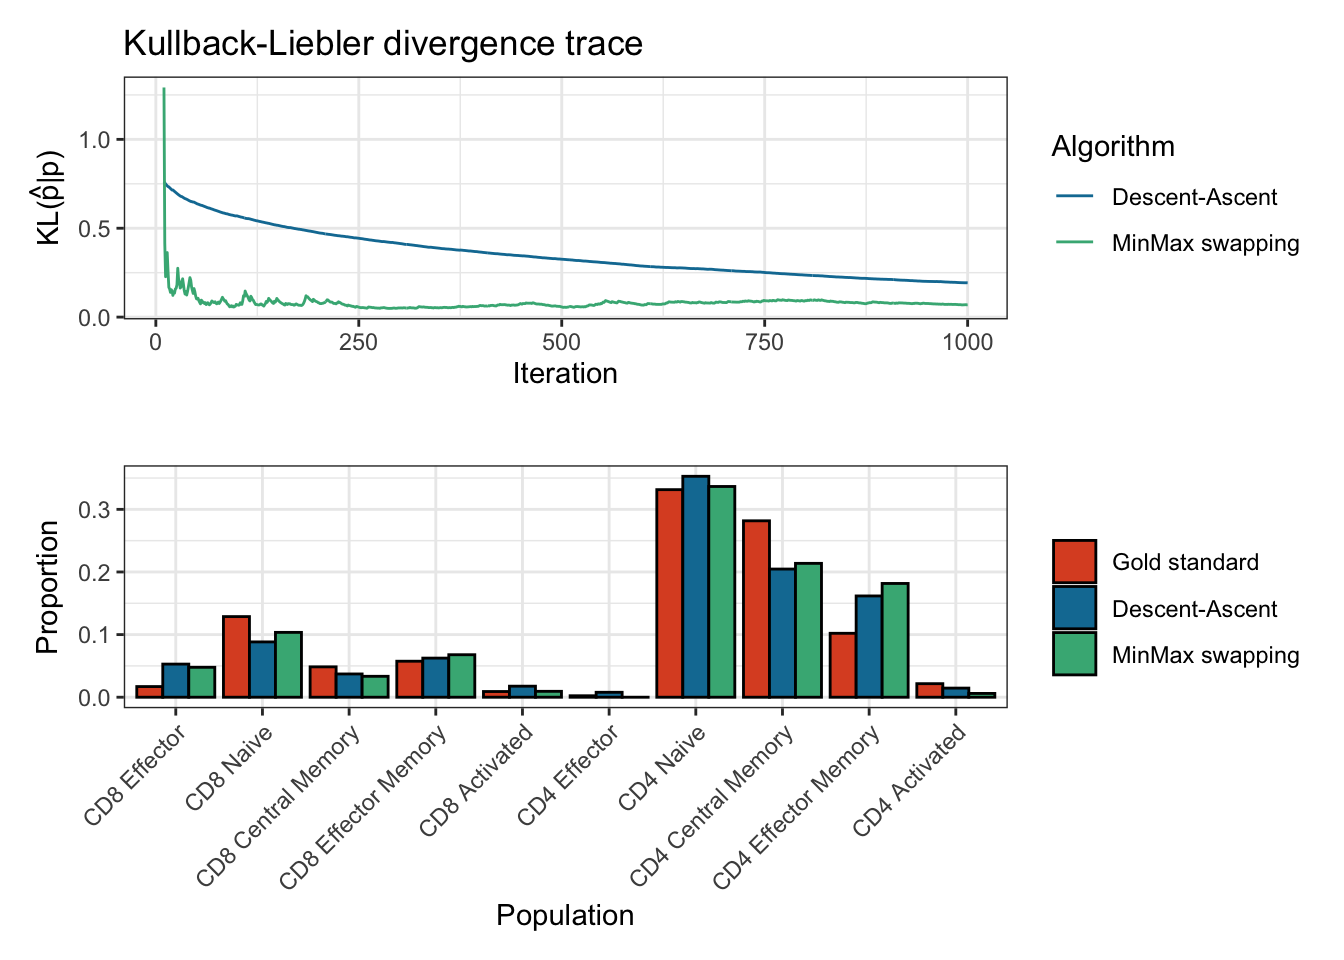
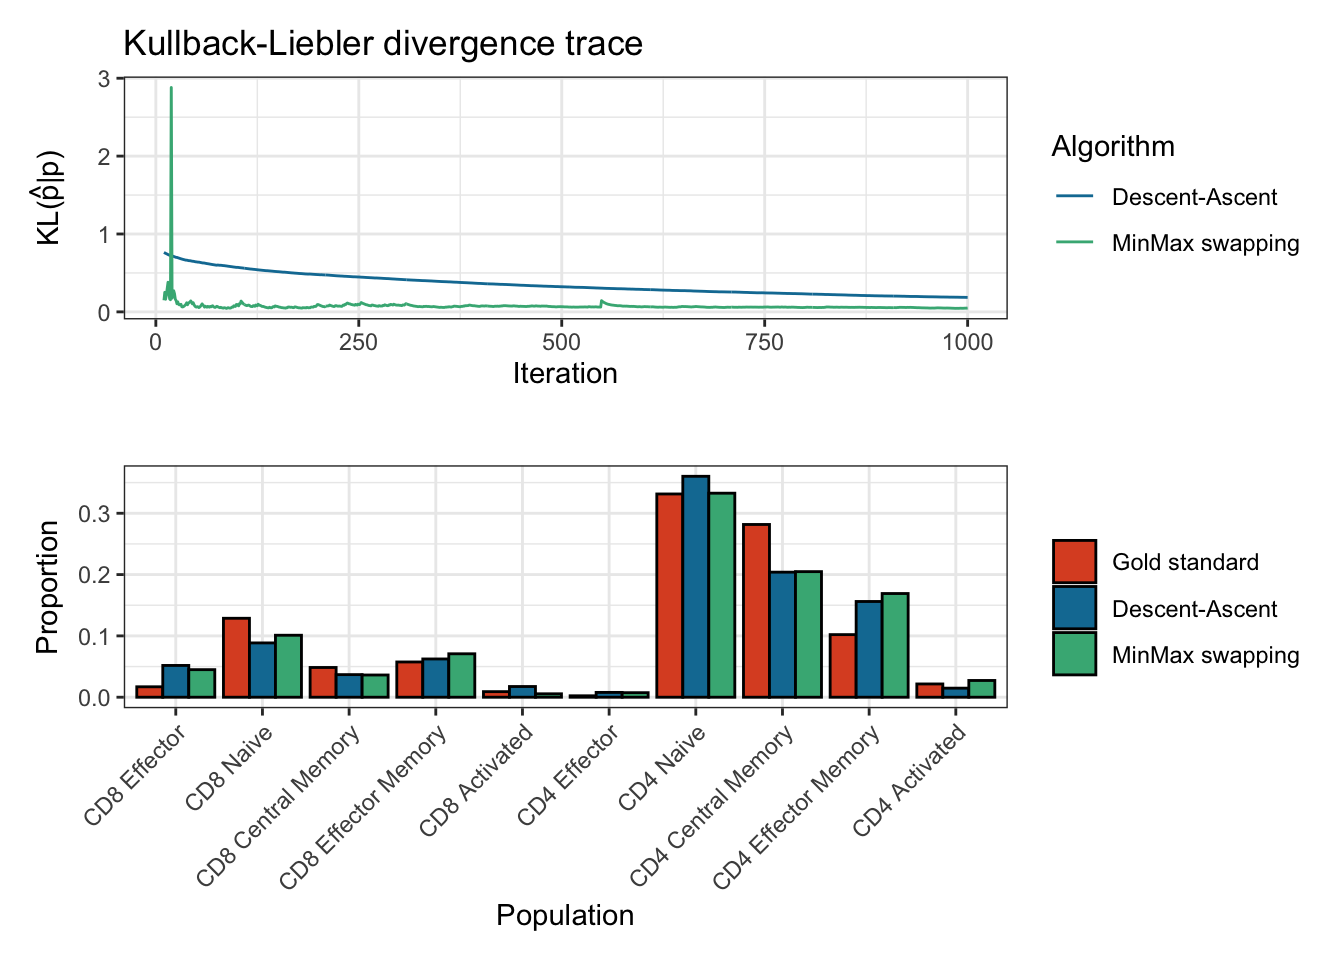
more infos for KL plotting and printing

diff --git a/README.md b/README.md
@@ -83,33 +83,37 @@ res <- CytOpT(X_s = HIPC_Stanford_1228_1A, X_t = HIPC_Stanford_1369_1A,
               step_grad = 10, step = 5, power = 0.99, 
               method='both', monitoring=TRUE)
 #> Running Descent-ascent optimization...
-#> Done in 1.2 mins
+#> Done in 1.1 mins
 #> Running MinMax optimization...
-#> Done in 12.6 secs
+#> Done in 15.3 secs
 ```
 
 ``` r
 summary(res)
 #> Estimation of cell proportions with Descent-Ascent and MinMax swapping from CytOpt:
 #>                     Gold_standard Descent_ascent      MinMax
-#> CD8 Effector          0.017004001    0.053373073 0.049165803
-#> CD8 Naive             0.128736173    0.090347127 0.101853869
-#> CD8 Central Memory    0.048481996    0.037840538 0.035433512
-#> CD8 Effector Memory   0.057484114    0.066705538 0.073213153
-#> CD8 Activated         0.009090374    0.017815159 0.006404042
-#> CD4 Effector          0.002324076    0.007442363 0.013276764
-#> CD4 Naive             0.331460344    0.345556315 0.334588823
-#> CD4 Central Memory    0.281713344    0.204513209 0.206829823
-#> CD4 Effector Memory   0.102082843    0.161762256 0.151074689
-#> CD4 Activated         0.021622735    0.014644421 0.028159522
+#> CD8 Effector          0.017004001    0.051811765 0.044949922
+#> CD8 Naive             0.128736173    0.088553804 0.101069760
+#> CD8 Central Memory    0.048481996    0.036842527 0.036233461
+#> CD8 Effector Memory   0.057484114    0.062380003 0.070825666
+#> CD8 Activated         0.009090374    0.017439071 0.005579535
+#> CD4 Effector          0.002324076    0.007844185 0.007394887
+#> CD4 Naive             0.331460344    0.360283016 0.332733654
+#> CD4 Central Memory    0.281713344    0.203949350 0.204808587
+#> CD4 Effector Memory   0.102082843    0.156117274 0.169102276
+#> CD4 Activated         0.021622735    0.014779005 0.027302251
 #> 
 #> Final Kullback-Leibler divergences:
 #>  Descent-Ascent MinMax swapping 
-#>      0.06790844      0.06172906
+#>      0.06534157      0.05700472 
+#> Number of iterations:
+#>  Descent-Ascent MinMax swapping 
+#>            5000           10000
 ```
 
 ``` r
 plot(res)
+#> Plotting KL divergence for iterations 10 to 1000 while there were at least 5000 iterations performed for each method.
 ```
 
 <img src="man/figures/README-summary-plots-1.png" width="100%" />
